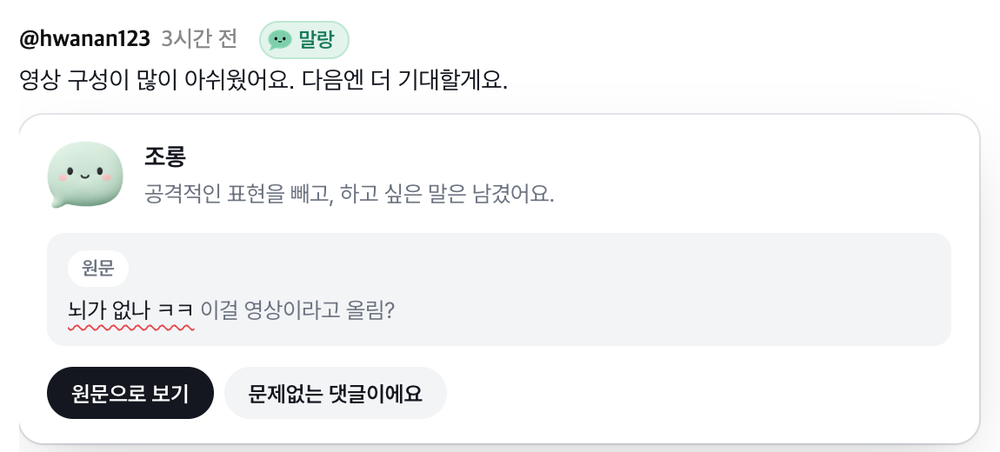
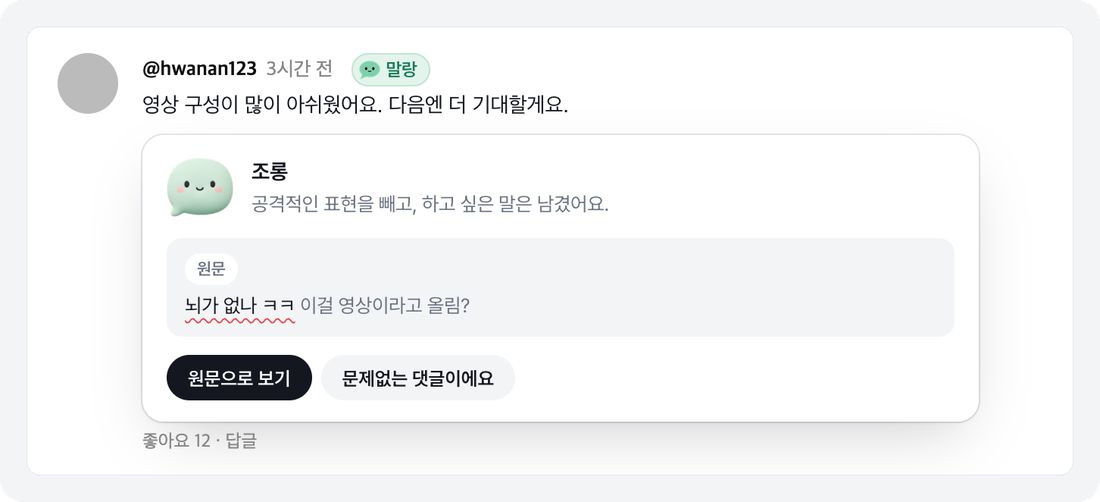
README 캡처에 액자 입히고 화면 설명 정리

diff --git a/README.md b/README.md
@@ -50,31 +50,43 @@
 
 ### 순화한 댓글과 원문 카드
 
-원문에서 문제가 된 표현에 물결 밑줄을 긋고, 어떤 유형(조롱·욕설·비하·외모 비하·혐오·비꼼·위협)이었는지 알려 줘요.
+바뀐 댓글 옆 **말랑** 칩을 누르면 카드가 열려요. 문제가 된 표현에 물결 밑줄을 긋고, 어떤 유형(조롱·욕설·비하·외모 비하·혐오·비꼼·위협)이었는지 알려 줘요.
 잘못 바꿨다면 **문제없는 댓글이에요** 를 누르면 그 댓글은 다시 건드리지 않아요.
 
-<img src="docs/card.png" width="720" alt="순화한 댓글과 원문 카드">
+<img src="docs/card.png" width="760" alt="순화한 댓글과 원문 카드">
+
+<br>
 
 ### 가린 댓글
 
-<img src="docs/hidden.png" width="720" alt="가린 댓글">
+공격 말고는 남길 의견이 없는 댓글은 흐리게 가리고, **보기** 를 누르면 펼쳐요.
+
+<img src="docs/hidden.png" width="760" alt="가린 댓글">
+
+<br>
 
 ### 읽는 동안에도 알려 줘요
 
 판정을 기다리는 댓글은 흐리게 두고 시간 옆에 **읽는 중** 을, 댓글창 머리에는 **"댓글 N개를 말랑이 읽고 있어요"** 를 보여 줘요.
 AI 연결에 문제가 생기면 숨기지 않고 **"AI 연결에 문제가 있어 욕설만 가리고 있어요"** 로 알려요.
 
-<img src="docs/reading.png" width="720" alt="읽는 중 표시">
+<img src="docs/reading.png" width="560" alt="읽는 중 표시">
+
+<br>
 
 ### 답글 코치
 
-<img src="docs/coach.png" width="720" alt="답글 코치">
+댓글을 쓰다 손을 멈추면 바꿔 쓸 문장을 제안해요. **바꾸기** 를 누르면 입력창 글이 바뀌고, 그대로 올려도 돼요.
+
+<img src="docs/coach.png" width="760" alt="답글 코치">
+
+<br>
 
 ### 팝업
 
 <table>
 <tr>
-<td width="340"><img src="docs/popup.png" width="320" alt="말랑 팝업"></td>
+<td width="320"><img src="docs/popup.png" width="300" alt="말랑 팝업"></td>
 <td>
 
 - **순화 강도** — 기준선만 바꿔서, 바꿔도 AI를 다시 부르지 않아요.
